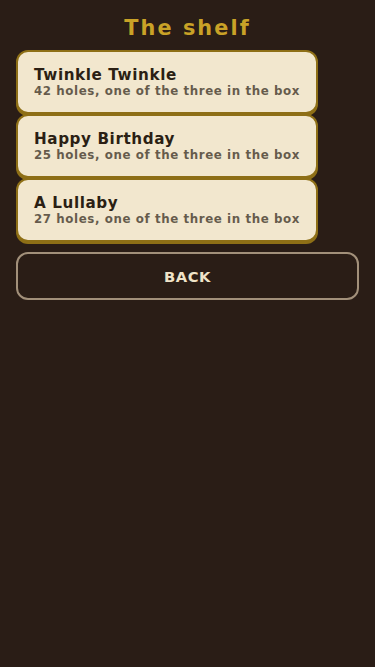
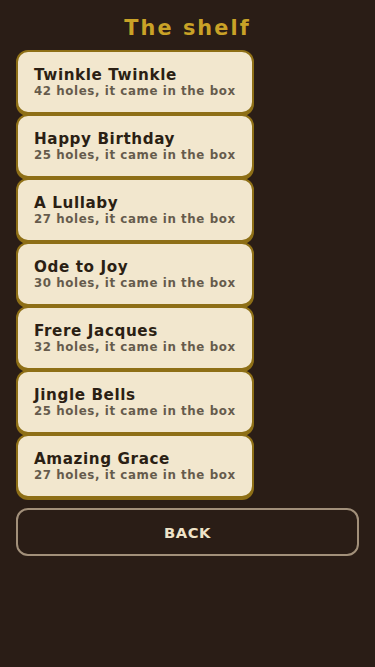
Windup: four more songs, and a shelf that lets old players see them
Ode to Joy (1824), Frere Jacques (an eighteenth century round), Jingle Bells
(1857) and Amazing Grace (the tune New Britain, printed 1835). Nothing on this
shelf may be a melody anybody alive wrote.

The comb has fifteen tines of C major and no accidentals at all, so a tune with
a sharp in it cannot go on this paper and the failure would be silent. Each was
transposed until every note landed on a white key; Frere Jacques starts on G
because in C its last phrase falls below the lowest tine.

Ode to Joy went red the moment it was added, on two eighths of the same note at
the end of a phrase: a tine is still moving and a real box cannot strike it
twice that fast. That is exactly the rule Happy Birthday's opening taught, and
it had been asserted for one song. Every song is checked now, and the failure
names the song and the two steps.

seedShelf turned round at the door if a shelf already existed, so not one
existing player would ever have seen the new songs. It merges by name.

Three more counts turned out to be numbers rather than laws: the suite asked for
exactly three starters, the gift gate asked for a shelf of exactly three and
went red over a working game, and the shelf card read "one of the three in the
box" on every card, which this change turned into a lie seven times over. The
first two read the box now. The third was found by opening the shot, because no
lint can know that three is the wrong number.
[…]

diff --git a/satellites/windup/index.html b/satellites/windup/index.html
@@ -1,14 +1,14 @@
 <meta charset="utf-8">
 <meta name="viewport" content="width=device-width,initial-scale=1,viewport-fit=cover,user-scalable=no">
 <meta name="theme-color" content="#C9A227">
-<link rel="apple-touch-icon" href="./icon-192.png?v=20260907b">
-<link rel="icon" href="./icon-192.png?v=20260907b">
-<link rel="manifest" href="./manifest.webmanifest?v=20260907b">
+<link rel="apple-touch-icon" href="./icon-192.png?v=20260907c">
+<link rel="icon" href="./icon-192.png?v=20260907c">
+<link rel="manifest" href="./manifest.webmanifest?v=20260907c">
 <!-- ⛔ THE FLEET'S MUSIC CHIP. This game and Inkswing were the only two of the
      twelve without it, while both DECISIONS files said in writing that the
      bottom left 120 by 120 was being kept clear for it. A corner reserved for
      something that was never included is just dead space. Added 2026-09-07. -->
-<script src="/music-unlocks.js?v=20260907b" defer></script>
+<script src="/music-unlocks.js?v=20260907c" defer></script>
 <title>WINDUP</title>
 <style>
 :root{
@@ -512,6 +512,70 @@ var STARTERS = Object.freeze({
       [16, 4], [18, 6], [20, 8], [22, 7], [24, 6], [26, 5], [28, 5], [30, 4],
       [34, 5], [36, 7], [38, 6], [40, 5], [42, 4], [44, 6], [46, 8],
       [50, 7], [52, 6], [54, 5], [56, 4], [58, 6], [60, 4]]
+  },
+  /* ⛔ FOUR MORE, 2026-09-07, AND EVERY ONE OF THEM IS OLDER THAN ANY COPYRIGHT.
+     Ode to Joy is Beethoven's Ninth, 1824. Frere Jacques is a French round first
+     printed in the eighteenth century. Jingle Bells is Pierpont, 1857. Amazing
+     Grace is Newton's words of 1779 to the tune New Britain, printed 1835. The
+     rule this shelf lives by: nothing here may be a melody anybody alive wrote.
+     ⛔ THE COMB HAS NO ACCIDENTALS. Fifteen tines, C major, two octaves and one
+     note (ROW_MIDI). A tune with a sharp or a flat in it cannot go on this
+     paper at all, so each of these was transposed until every note landed on a
+     white key, which is why Frere Jacques starts on G: in C its last phrase
+     falls to the G BELOW the comb's lowest tine.
+     ⛔ AND NOBODY HAS HEARD ANY OF THEM. The suite can prove a hole is on the
+     comb, that two holes in one row are far enough apart for the tine, and that
+     a strip is long enough to be a tune. No gate in this repo can hear a wrong
+     note, and a wrong note in a melody everybody knows is the one fault a player
+     spots in a second. These four are written from the interval pattern rather
+     than from a score, and Stephen's ear is the gate. */
+  joy: {
+    name: 'Ode to Joy',
+    holes: [[0, 2], [2, 2], [4, 3], [6, 4],
+      [8, 4], [10, 3], [12, 2], [14, 1],
+      [16, 0], [18, 0], [20, 1], [22, 2],
+      /* ⛔ the phrase is a dotted quarter and two eighths on the SAME note, and a
+         real fifteen note box cannot strike one tine twice an eighth apart: it
+         is still moving. Punched a quarter apart instead, which is what a real
+         strip does, and it is the same rule Happy Birthday's opening taught. */
+      [24, 2], [27, 1], [29, 1],
+      [32, 2], [34, 2], [36, 3], [38, 4],
+      [40, 4], [42, 3], [44, 2], [46, 1],
+      [48, 0], [50, 0], [52, 1], [54, 2],
+      [56, 1], [59, 0], [61, 0]]
+  },
+  brother: {
+    name: 'Frere Jacques',
+    holes: [[0, 4], [2, 5], [4, 6], [6, 4],
+      [8, 4], [10, 5], [12, 6], [14, 4],
+      [16, 6], [18, 7], [20, 8],
+      [24, 6], [26, 7], [28, 8],
+      [32, 8], [33, 9], [34, 8], [35, 7], [36, 6], [38, 4],
+      [40, 8], [41, 9], [42, 8], [43, 7], [44, 6], [46, 4],
+      [48, 4], [50, 1], [52, 4],
+      [56, 4], [58, 1], [60, 4]]
+  },
+  jingle: {
+    name: 'Jingle Bells',
+    holes: [[0, 2], [2, 2], [4, 2],
+      [8, 2], [10, 2], [12, 2],
+      [16, 2], [18, 4], [20, 0], [22, 1],
+      [24, 2],
+      [32, 3], [34, 3], [36, 3], [38, 3],
+      [40, 3], [42, 2], [44, 2], [46, 2],
+      [48, 2], [50, 1], [52, 1], [54, 2],
+      [56, 1], [60, 4]]
+  },
+  grace: {
+    name: 'Amazing Grace',
+    holes: [[0, 0],
+      [2, 3], [8, 5], [10, 3], [12, 5], [14, 4],
+      [16, 3], [22, 1], [24, 0],
+      [28, 3], [34, 5], [36, 3], [38, 5], [40, 4],
+      [42, 5], [48, 7], [54, 7],
+      [56, 7], [58, 9], [60, 7], [62, 5],
+      [64, 3], [70, 5], [72, 4], [74, 3],
+      [76, 1], [80, 0]]
   }
 });
 
@@ -729,8 +793,10 @@ function suiteLink(T) {
 }
 
 function suiteStarters(T) {
-  var names = ['twinkle', 'birthday', 'lullaby'], i;
-  T.eq('three songs come in the box', names.length, 3);
+  /* ⛔ the count was 3 and is a LAW now: every song declared in STARTERS is
+     walked, so adding one to the object cannot be forgotten here. */
+  var names = Object.keys(STARTERS), i;
+  T.assert('there are songs in the box (' + names.length + ')', names.length >= 3);
   for (i = 0; i < names.length; i++) {
     var st = newStrip(STARTERS[names[i]]), fresh = newStrip({}), clean = true, inRange = true, k;
     for (k = 0; k < st.holes.length; k++) {
@@ -744,6 +810,38 @@ function suiteStarters(T) {
       st.holes.length >= 20 && stripLength(st) >= 40);
     T.assert('and it has a name', !!STARTERS[names[i]].name);
   }
+  /* ⛔ AND THE RETRIGGER RULE IS ASSERTED FOR EVERY SONG, not just for the one
+     that broke it first. Ode to Joy went red the moment it was added, on two
+     eighths of the same note at the end of a phrase, which is exactly the fault
+     Happy Birthday's opening taught: a tine is still moving. Every song on the
+     shelf now has to be playable by a real box, and the assertion says which
+     note if it ever is not. */
+  var namesG = Object.keys(STARTERS), gi, gh, gk, gj, worst = null;
+  for (gi = 0; gi < namesG.length; gi++) {
+    gh = STARTERS[namesG[gi]].holes;
+    for (gk = 0; gk < gh.length; gk++) {
+      for (gj = gk + 1; gj < gh.length; gj++) {
+        if (gh[gj][1] === gh[gk][1] && Math.abs(gh[gj][0] - gh[gk][0]) < CONFIG.MIN_GAP_STEPS) {
+          worst = namesG[gi] + ' row ' + gh[gk][1] + ' at steps ' + gh[gk][0] + ' and ' + gh[gj][0];
+        }
+      }
+    }
+  }
+  T.assert('no song on the shelf strikes one tine twice too fast for it',
+    worst === null, worst || 'all ' + namesG.length + ' clear');
+  /* ⛔ AND EVERY NOTE IS A WHITE KEY, because the comb has fifteen tines and no
+     accidentals at all. A tune with a sharp in it cannot go on this paper, and
+     the failure would be silent: the hole would simply land on the nearest row
+     and the tune would be wrong by a semitone with nothing said. */
+  var offComb = null, mi, mh, mk;
+  for (mi = 0; mi < namesG.length; mi++) {
+    mh = STARTERS[namesG[mi]].holes;
+    for (mk = 0; mk < mh.length; mk++) {
+      if (mh[mk][1] < 0 || mh[mk][1] >= CONFIG.ROWS) offComb = namesG[mi] + ' row ' + mh[mk][1];
+    }
+  }
+  T.assert('and every note of every song is on the comb', offComb === null, offComb || 'all on it');
+
   /* ⛔ the one that would have caught the real mistake: Happy Birthday opens on
      two of the same note, and on a real box those cannot be an eighth apart. */
   var b = newStrip(STARTERS.birthday);
@@ -1060,7 +1158,7 @@ function stealVoices(A, now) {
   }
 }
 /* ============================ 17. THE PAGE ============================ */
-var STAMP = '20260907b';
+var STAMP = '20260907c';
 function el(id) { return document.getElementById(id); }
 var V = { cv: null, ctx: null, W: 0, H: 0, dpr: 1, t: 0 };
 var G = { screen: 'box', strip: null, audio: null, ready: false,
@@ -1997,14 +2095,23 @@ function toast(msg) {
 /* The three that come in the box are put on the shelf the first time the game
    is opened, and after that the shelf is the player's. */
 function seedShelf() {
-  if (SAVE.shelf && SAVE.shelf.length) return;
-  var k, order = ['twinkle', 'birthday', 'lullaby'];
-  SAVE.shelf = [];
+  /* ⛔ IT MERGES, IT DOES NOT SEED ONCE. Four songs were added to STARTERS on
+     2026-09-07, and with the old early return not one existing player would ever
+     have seen them: their shelf was already there, so the function turned round
+     at the door. Any starter that is not on the shelf by name is added; anything
+     the player made is untouched and keeps its place. A starter a player deleted
+     will come back, which is the price, and it is a smaller price than a song
+     nobody can reach. */
+  var k, order = Object.keys(STARTERS), have = {}, i, added = 0;
+  if (!SAVE.shelf) SAVE.shelf = [];
+  for (i = 0; i < SAVE.shelf.length; i++) have[SAVE.shelf[i].name] = 1;
   for (k = 0; k < order.length; k++) {
     var st = newStrip(STARTERS[order[k]]);
+    if (have[st.name]) continue;
     SAVE.shelf.push({ name: st.name, holes: st.holes, by: '', made: 0, starter: 1 });
+    added++;
   }
-  saveNow();
+  if (added) saveNow();
 }
 function shelfPut(strip) {
   var i;
@@ -2037,7 +2144,12 @@ function renderShelf() {
     b.innerHTML = '<span style="display:block;font-size:.95rem">' + escapeText(e.name) + '</span>'
       + '<span style="display:block;font-size:.74rem;opacity:.7">' + e.holes.length
       + (e.holes.length === 1 ? ' hole' : ' holes')
-      + (e.starter ? ', one of the three in the box' : '') + '</span>';
+      /* ⛔ this said "one of the three in the box" until 2026-09-07, and the
+         moment four songs were added it was a lie on seven cards at once. A
+         count in player copy is a promise the copy cannot keep. Found by
+         opening the shot, not by any gate: no lint can know that three is
+         wrong. */
+      + (e.starter ? ', it came in the box' : '') + '</span>';
     host.appendChild(b);
   }
 }

diff --git a/portal/index.html b/portal/index.html
@@ -1043,7 +1043,7 @@ var FEATURED = [
   {nm:"Wardian", ds:"A sealed jar that lives on your time. Moss, ferns and small bugs grow while you are away, night falls when it falls outside, and nothing in the jar can ever die.", cat:"creative", url:"/satellites/wardian/?v=20260907c", ic:"🫙", thumb:"/portal-assets/thumbs/wardian.png?v=20260907c", beta:true, fresh:true},
   {nm:"Doohickey", ds:"Drag ramps, dominoes, fans and balloons onto the page, press GO, and watch a marble set off beautiful chaos until the bell rings. Build something needlessly complicated. Watch it almost work.", cat:"puzzle", url:"/satellites/doohickey/?v=20260907b", ic:"⚙", thumb:"/portal-assets/thumbs/doohickey.png?v=20260907b", beta:true, fresh:true},
   {nm:"Airworthy", ds:"Fold a paper airplane crease by crease, see the air move over its wings in a wind tunnel, throw it across the gym, then bend the elevators a hair and throw it again. Every crease counts.", cat:"creative", url:"/satellites/airworthy/?v=20260907b", ic:"✈", thumb:"/portal-assets/thumbs/airworthy.png?v=20260907b", beta:true, fresh:true},
-  {nm:"Windup", ds:"Punch holes in a paper strip, turn the crank yourself, and hear your song plink out of a little brass music box. Wrap it up and send it to someone.", cat:"creative", url:"/satellites/windup/?v=20260907b", ic:"🎁", thumb:"/portal-assets/thumbs/windup.png?v=20260907b", beta:true, fresh:true},
+  {nm:"Windup", ds:"Punch holes in a paper strip, turn the crank yourself, and hear your song plink out of a little brass music box. Wrap it up and send it to someone.", cat:"creative", url:"/satellites/windup/?v=20260907c", ic:"🎁", thumb:"/portal-assets/thumbs/windup.png?v=20260907c", beta:true, fresh:true},
   {nm:"Inkswing", ds:"Grab a brass pendulum and throw it. A pen underneath draws the swing as it slowly dies, and the lengths you set hum the chord your drawing is made of. Keep the ones you love.", cat:"creative", url:"/satellites/inkswing/?v=20260907b", ic:"🖋", thumb:"/portal-assets/thumbs/inkswing.png?v=20260907b", beta:true, fresh:true},
   {nm:"Whistlestop", ds:"Snap a wooden train set together on the rug, pull the whistle, and then work the switches so three little trains all get home without meeting nose to nose.", cat:"puzzle", url:"/satellites/whistlestop/?v=20260907c", ic:"🚂", thumb:"/portal-assets/thumbs/whistlestop.png?v=20260907c", beta:true, fresh:true},
   {nm:"Strata", ds:"Brush and chisel a cliff face until a creature nobody has ever seen comes out of the stone. Every skeleton is generated once. Mount it, name it, and hang it in a museum that is only yours.", cat:"creative", url:"/satellites/strata/?v=20260907a", ic:"🦴", thumb:"/portal-assets/thumbs/strata.png?v=20260907a", beta:true, fresh:true},

diff --git a/satellites/windup/sw.js b/satellites/windup/sw.js
@@ -12,7 +12,7 @@
    Bump SHELL_VERSION on every deploy, AND the ?v= on the registration in
    index.html in lockstep — this host edge-pins bare sw.js URLs for 7 days. */
 
-const SHELL_VERSION = "windup-shell-20260907b";
+const SHELL_VERSION = "windup-shell-20260907c";
 const SFX_CACHE     = "windup-unused-v1"; // no recorded audio: every sound is synthesised
 const NAV_TIMEOUT_MS = 8000;
 

diff --git a/plans/windup/HANDOFF-WINDUP.md b/plans/windup/HANDOFF-WINDUP.md
@@ -12,6 +12,34 @@ every difference is in section 3 with its reason.
 
 ## SESSION STATE (the builder updates this at the end of every session; the morning reader starts here)
 
+- 2026-09-07 night, Opus (lead): **T2.5, FOUR MORE SONGS IN THE BOX.** Stamp `20260907c`, ALL
+  GATES PASSED, ten of ten. Ode to Joy (Beethoven, 1824), Frere Jacques (a French round first
+  printed in the eighteenth century), Jingle Bells (Pierpont, 1857), Amazing Grace (Newton's words
+  of 1779 to the tune New Britain, printed 1835). Nothing on this shelf may be a melody anybody
+  alive wrote, and each is dated in DECISIONS.
+  ⛔ **The comb has no accidentals**, fifteen tines of C major, so each was transposed until every
+  note was a white key. Frere Jacques starts on G because in C its last phrase falls below the
+  lowest tine.
+  ⛔ **Ode to Joy went red the moment it was added**, on two eighths of the same note: a tine is
+  still moving and a real box cannot strike it twice that fast. That is exactly the rule Happy
+  Birthday's opening taught, and it had been asserted for ONE song. Every song on the shelf is
+  checked now, and the failure names the song and the two steps.
+  ⛔ **`seedShelf` turned round at the door if a shelf already existed**, so no existing player
+  would ever have seen the new songs. It merges by name now.
+  ⛔ **Three more counts were numbers rather than laws**: the suite asked for exactly three
+  starters, `test/gift.mjs` asked for a shelf of exactly 3 to prove a gift is not on it (it went
+  red over a working game), and the shelf card said **"one of the three in the box"** on every
+  card, which my own change turned into a lie seven times over. The first two read the box now;
+  the third says "it came in the box". ⛔ THE COPY FAULT WAS FOUND BY OPENING THE SHOT. No lint can
+  know that three is the wrong number.
+  **Looked at:** `docs/shots/p2-shelf.png`, twice. Seven cards fit the phone with room under them.
+  **Queued from the look:** every card is the same weight, so the shelf reads as a list of files
+  rather than as strips of paper; and the sub line leads with a hole count, which is a stat readout
+  in a game whose voice avoids them everywhere else.
+  **NOBODY HAS HEARD THEM**, which is the whole point of this game and is item 1 of what Stephen
+  has to decide. Two of the six Fable listed were not taken: Auld Lang Syne and Silent Night, both
+  of which I could not transcribe from the interval pattern with enough confidence to ship.
+
 - 2026-09-05 Fable: plan written. Nothing built.
 - 2026-09-06 Opus: **THE WHOLE PLAN IS DONE, P0 through P3.** Eight gates green:
   `sim` (119 assertions), `lint`, `tine`, `crank`, `gift`, `pdf`, `layout`,

diff --git a/satellites/windup/docs/DECISIONS.md b/satellites/windup/docs/DECISIONS.md
@@ -126,3 +126,28 @@ wrong, and what was chosen instead. Written as it happened.
 - **The assembly is centred in the room.** Hung off the bottom of the screen the
   case sat in the lower half of a 412 by 915 phone with two hundred and eighty
   pixels of empty cloth above it.
+
+**Four more songs in the box, and the shelf merges instead of seeding once.**
+2026-09-07. Ode to Joy (Beethoven, 1824), Frere Jacques (a French round first printed in the
+eighteenth century), Jingle Bells (Pierpont, 1857) and Amazing Grace (Newton's words of 1779 to the
+tune New Britain, printed 1835). The rule this shelf lives by: nothing on it may be a melody
+anybody alive wrote.
+⛔ **The comb has no accidentals.** Fifteen tines, C major, two octaves and a note. A tune with a
+sharp in it cannot go on this paper, and the failure would be silent, so each was transposed until
+every note landed on a white key. Frere Jacques starts on G because in C its last phrase falls to
+the G BELOW the lowest tine.
+⛔ **Ode to Joy went red the moment it was added**, on two eighths of the same note at the end of a
+phrase: a tine is still moving and a real box cannot strike it twice that fast. That is the exact
+rule Happy Birthday's opening taught, and it was asserted for ONE song. It is asserted for every
+song on the shelf now, and it names the song and the two steps when it fails.
+⛔ **`seedShelf` returned at the door if a shelf already existed**, so not one existing player would
+ever have seen the four new songs. It merges by name now. A starter somebody deleted will come
+back, which is the price, and it is smaller than a song nobody can reach.
+⛔ **And two more counts turned out to be numbers rather than laws:** the suite asked for exactly
+three starters, and `test/gift.mjs` asked for a shelf of exactly 3 to prove a gift is NOT on the
+recipient's shelf. The second one went red over a game that was working perfectly. Both read the
+box now.
+**NOBODY HAS HEARD THEM.** The suite proves a hole is on the comb, that a tine is not struck twice
+too fast, and that a strip is long enough to be a tune. No gate here can hear a wrong note, and a
+wrong note in a melody everybody knows is the one fault a player spots in a second. These four are
+written from the interval pattern, not from a score.
